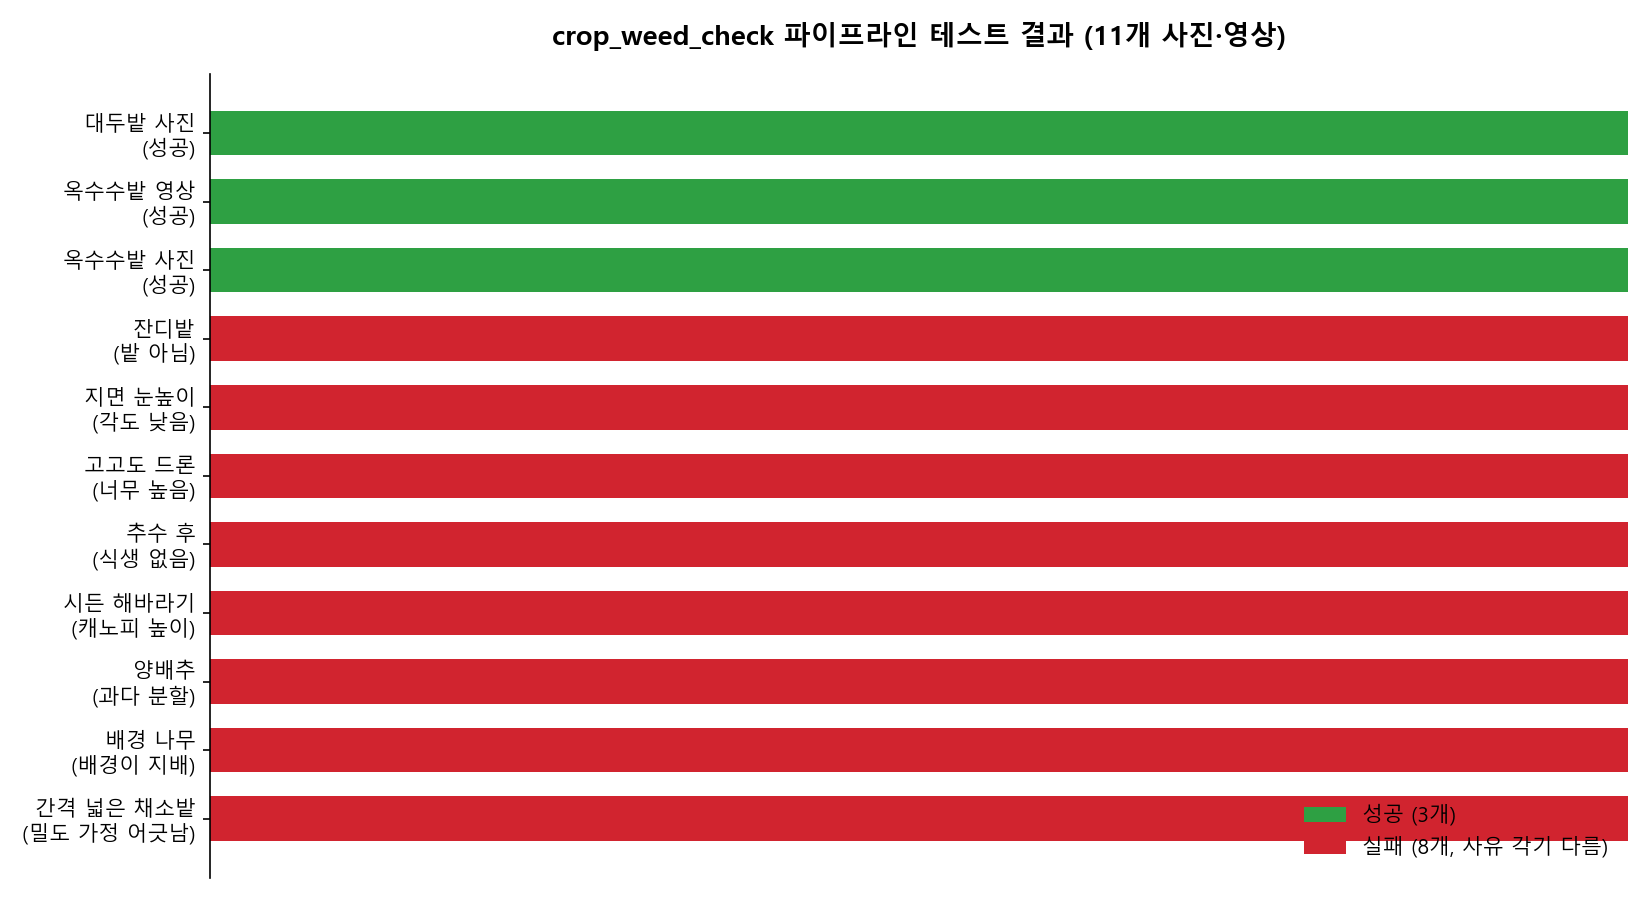
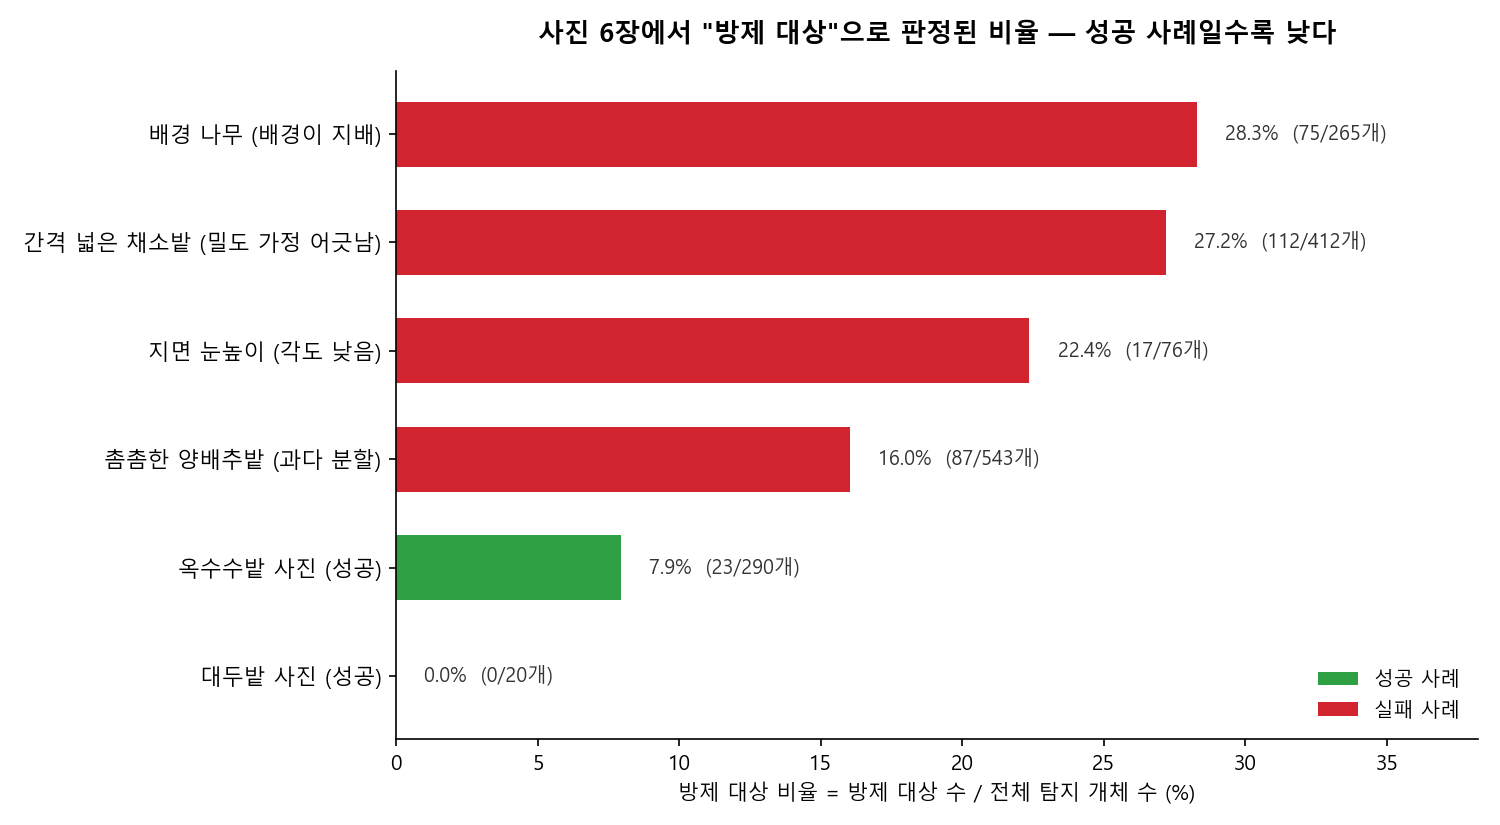
Replace placeholder bar chart with real detection-ratio chart from actual test runs

diff --git a/crop_weed_check/README.md b/crop_weed_check/README.md
@@ -40,6 +40,8 @@
 
 이 파이프라인이 **어떤 조건에서 잘 되고 어떤 조건에서 안 되는지**를 명확히 보여주기 위해, 성격이 다른 사진·영상 11개를 모아 전부 돌려봤습니다.
 
+아래는 이미지 기반 테스트 6건의 실제 `/api/analyze` 응답값(방제 대상 수 / 전체 탐지 개체 수)을 그대로 뽑아 비교한 그래프입니다. "방제 대상 비율"이 낮을수록 판정이 안정적이라는 뜻인데, 성공 사례(대두밭 0%, 옥수수밭 사진 7.9%)와 실패 사례(16~28%)가 뚜렷하게 갈리는 걸 볼 수 있습니다:
+
 ![테스트 결과 요약](docs/images/test_summary_chart.png)
 
 결과를 정리하면 이렇습니다.
